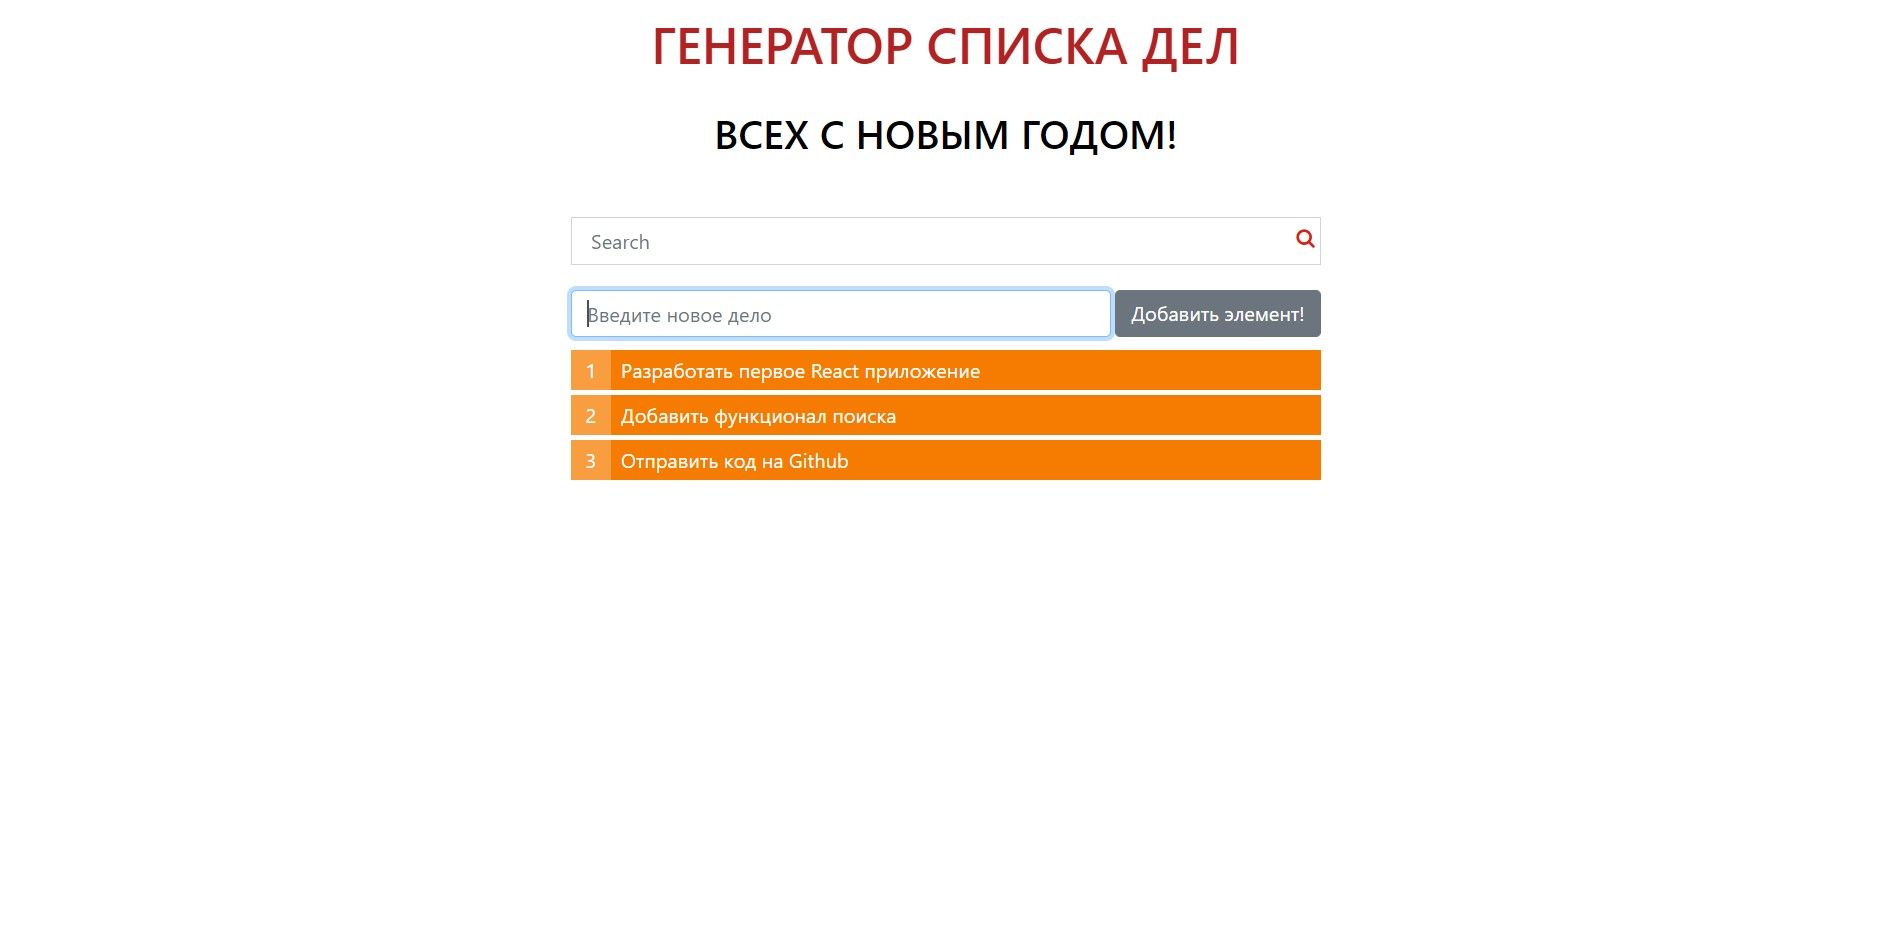
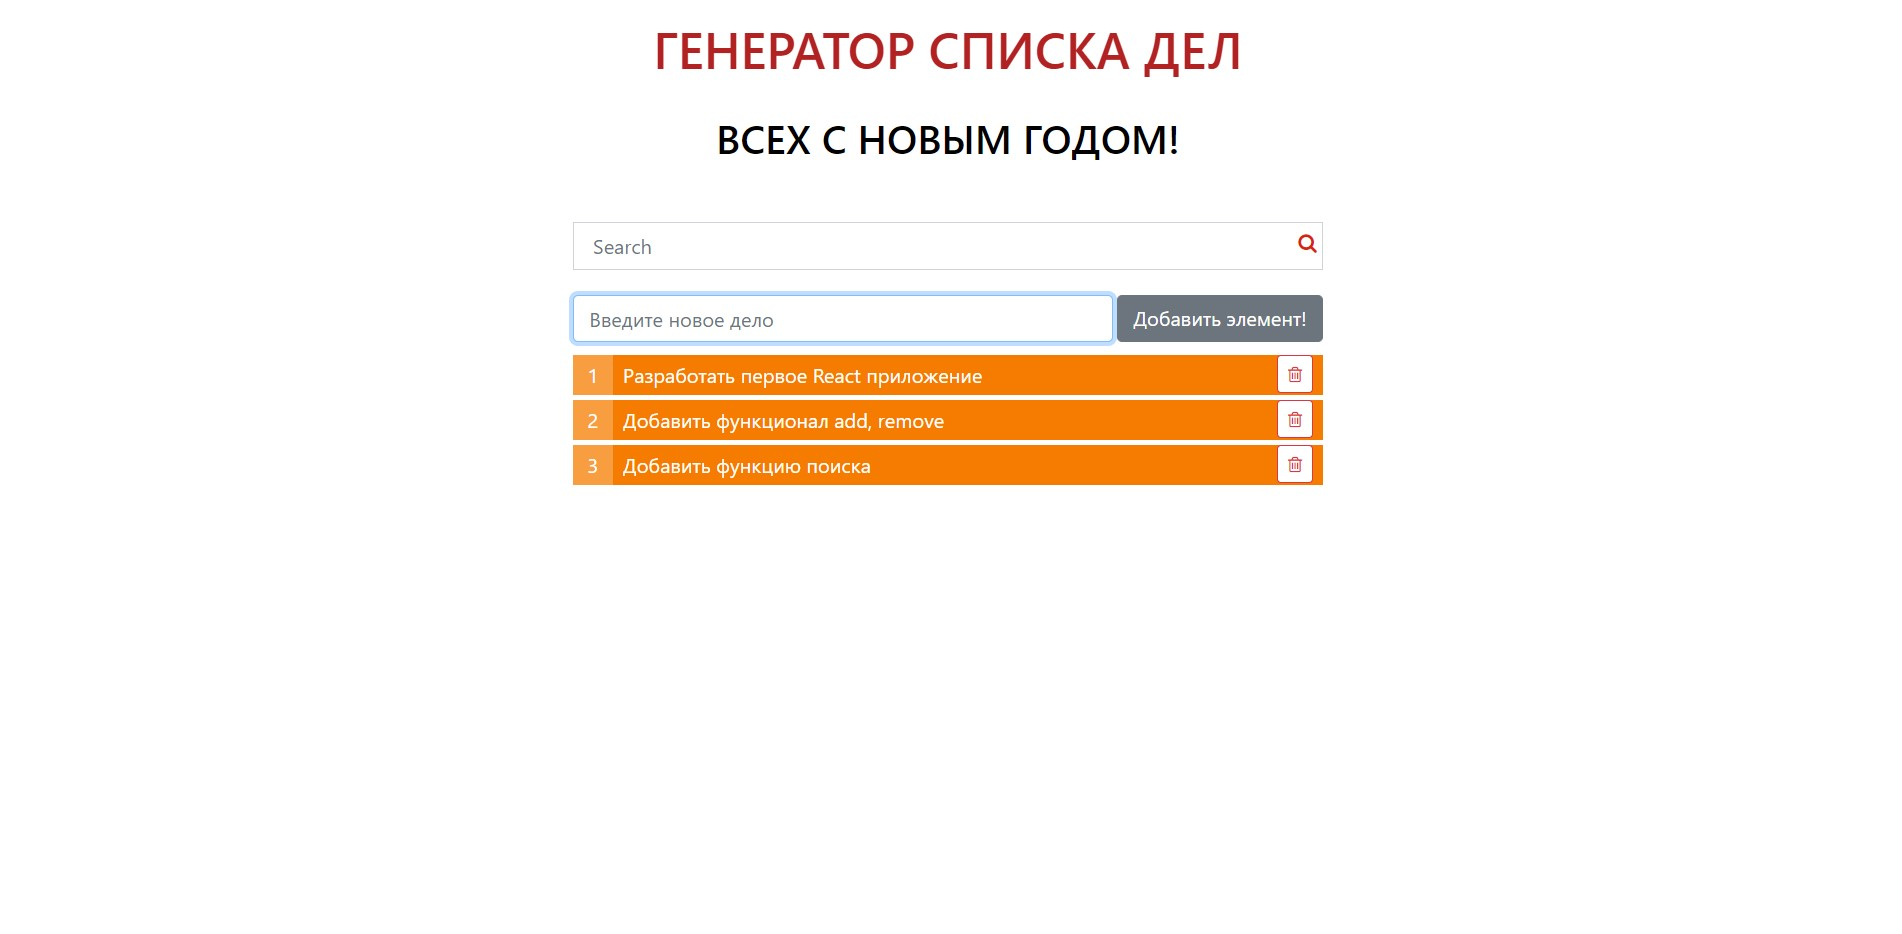
add function remove element

diff --git a/src/components/app/app.jsx b/src/components/app/app.jsx
@@ -37,6 +37,18 @@ export default class App extends Component {
     });
   };
 
+  DeleteItem = id => {
+    this.setState(({ taskData }) => {
+      const idx = taskData.findIndex(el => el.id === id);
+
+      const newArray = [...taskData.slice(0, idx), ...taskData.slice(idx + 1)];
+
+      return {
+        taskData: newArray
+      };
+    });
+  };
+
   onSearchChange = textSearch => {
     this.setState({ textSearch });
   };
@@ -60,7 +72,7 @@ export default class App extends Component {
         <AppHeaderSubtitle />
         <SearchPanel onSearchChange={this.onSearchChange} taskData={taskData} />
         <ItemAddForm onItemAdded={this.addItem} />
-        <TaskList todos={visibleItems} />
+        <TaskList todos={visibleItems} onDeleted={this.DeleteItem} />
       </div>
     );
   }

diff --git a/src/components/task-list-item/task-list-item.jsx b/src/components/task-list-item/task-list-item.jsx
@@ -4,7 +4,7 @@ import "./task-list-item.css";
 
 export default class TaskListItem extends Component {
   render() {
-    const { label, id } = this.props;
+    const { label, id, onDeleted } = this.props;
 
     let classNames = "task-list-item";
 
@@ -12,6 +12,13 @@ export default class TaskListItem extends Component {
       <span className={classNames}>
         <span className="task-list-before">{id}</span>
         <span className="task-list-item-label">{label}</span>
+        <button
+          type="button"
+          className="btn btn-outline-danger btn-sm float-right"
+          onClick={onDeleted}
+        >
+          <i className="fa fa-trash-o" />
+        </button>
       </span>
     );
   }

diff --git a/src/components/item-add-form/item-add-form.jsx b/src/components/item-add-form/item-add-form.jsx
@@ -3,7 +3,6 @@ import React, { Component } from "react";
 import "./item-add-form.css";
 
 export default class ItemAddForm extends Component {
-
   state = {
     label: ""
   };
@@ -16,10 +15,12 @@ export default class ItemAddForm extends Component {
 
   onSubmit = e => {
     e.preventDefault();
-    this.props.onItemAdded(this.state.label);
-    this.setState({
-      label: ""
-    });
+    if (this.state.label.length > 0) {
+      this.props.onItemAdded(this.state.label);
+      this.setState({
+        label: ""
+      });
+    }
   };
 
   render() {

diff --git a/src/components/task-list/task-list.jsx b/src/components/task-list/task-list.jsx
@@ -4,7 +4,7 @@ import TaskListItem from '../task-list-item';
 
 import './task-list.css';
 
-const TaskList = ({ todos }) => {
+const TaskList = ({ todos, onDeleted }) => {
   
   const elements = todos.map(item => {
     const { id } = item;
@@ -12,6 +12,7 @@ const TaskList = ({ todos }) => {
       <li key={id} className="list-item">
         <TaskListItem
           {...item}
+          onDeleted={() => onDeleted(id)}
         />
       </li>
     );

diff --git a/public/index.html b/public/index.html
@@ -4,6 +4,7 @@
 <head>
   <meta charset="utf-8" />
   <meta name="viewport" content="width=device-width, initial-scale=1" />
+  <link rel="stylesheet" href="https://stackpath.bootstrapcdn.com/font-awesome/4.7.0/css/font-awesome.min.css">
   <link rel="stylesheet" href="https://stackpath.bootstrapcdn.com/bootstrap/4.1.3/css/bootstrap.min.css">
   <title>React Task List Generator</title>
   <!------ for search-panel ---------->

diff --git a/src/components/search-panel/search-panel.jsx b/src/components/search-panel/search-panel.jsx
@@ -16,7 +16,7 @@ export default class SearchPanel extends Component {
   render() {
     const { taskData } = this.props;
 
-    let classNames = "container ";
+    let classNames = "container";
 
     if (taskData.length > 1) {
       classNames += " moreTwoItems";

diff --git a/src/components/task-list-item/task-list-item.css b/src/components/task-list-item/task-list-item.css
@@ -1,0 +1,8 @@
+.task-list-item .btn {
+  background-color: #fff;
+}
+
+.task-list-item .btn:hover {
+  color: #000;
+  background-color: red;
+}
